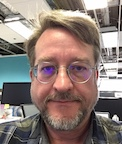
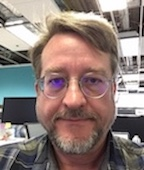
adds selfie

diff --git a/public_html/index.html b/public_html/index.html
@@ -64,19 +64,24 @@
 	      names were free and spam was meat in a can.
 
 	      It has no purpose other than display my
-	      r&eacute;sum&eacute; and various demos.
-
-	      Currently it is implemented with containers to
-	      demonstrate how to setup a web site with
-	      micro-services, described below.
-
-	      I created it mostly "by hand" with open source tools.
-	      All the source is checked into <a href="https://github.com/lrmcfarland/">my github repos.</a>
+	      r&eacute;sum&eacute; and support my projects.
 
 	    <p>
-	      I can be contacted
-	      though <a href="https://www.linkedin.com/in/lrmcfarland">LinkedIn</a>
+	      This iteration uses containers to
+	      explore how to setup a web site with
+	      micro-services, described below.
+
+	      I created it mostly "by hand" with emacs and other open source tools.
+	      All the source is checked into <a href="https://github.com/lrmcfarland/">my github repos.</a>
+	    </p>
+
+	    <p>
+	      You can reach me though <a href="https://www.linkedin.com/in/lrmcfarland">LinkedIn</a>
 	      or <a href="https://www.facebook.com/lincoln.mcfarland">FaceBook</a>.
+	    </p>
+
+	    <p>
+	      <i>-lrm, 2018 Jan 21</i>
 	    </p>
 
 	    <p>
@@ -137,7 +142,7 @@
 	  </ul>
 
 	  <ul>
-	    <li>Kayaking Pictures</li>
+	    <li>Kayaking</li>
 
 	    <ul>
 	      <li><a href=Kayaking/ender.html>Ender</a></li>
